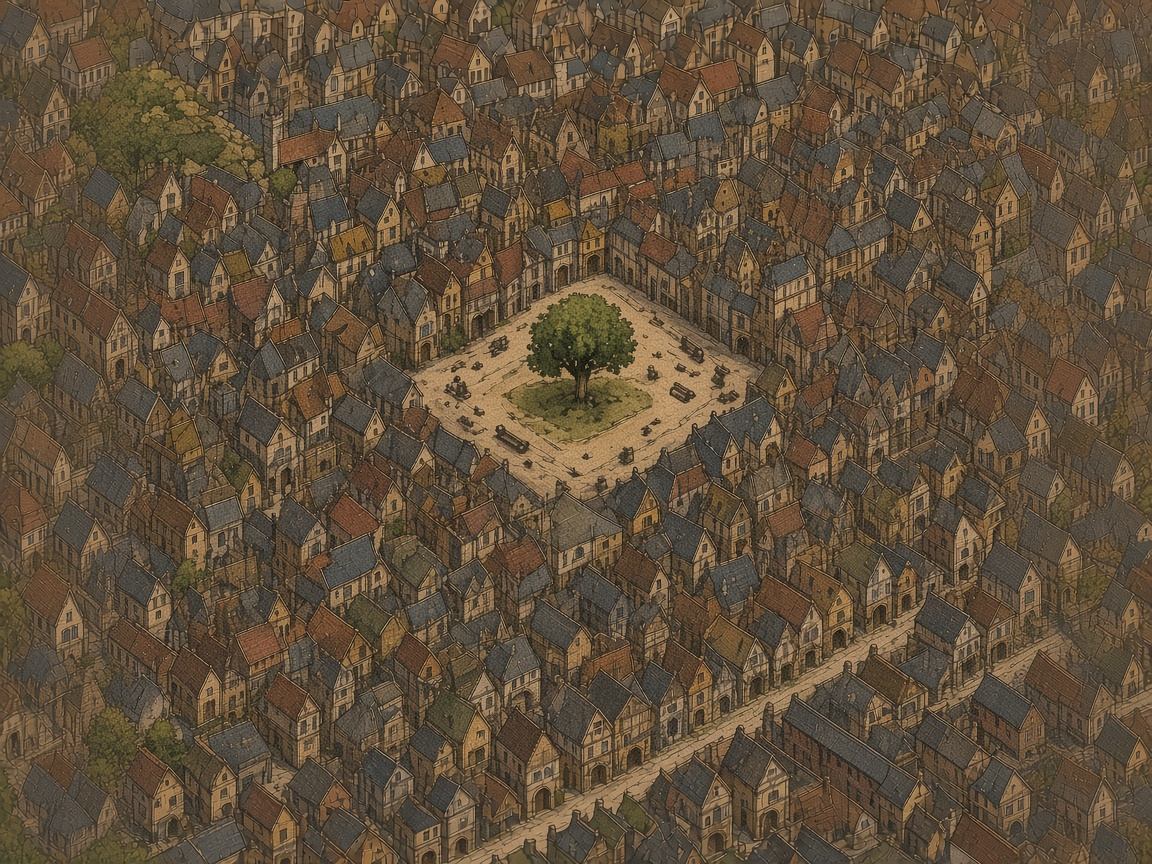
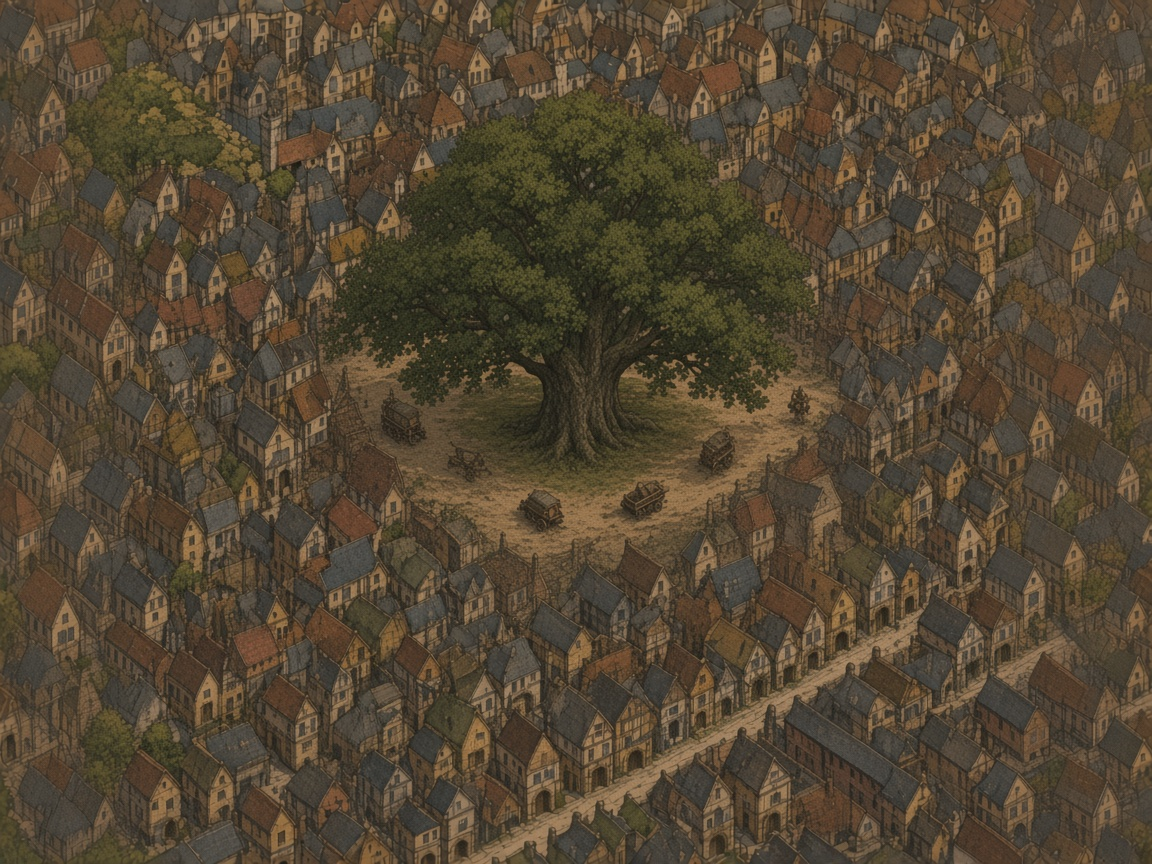
Paint Orentel's Tree as a mature Hand.
The closer sheet had a street tree. The Hand is now a broad dark hardwood filling its square, still inside the city and not the First Hand.

diff --git a/14 - Assets/Maps/label_orentel_drop.py b/14 - Assets/Maps/label_orentel_drop.py
@@ -1,8 +1,9 @@
 #!/usr/bin/env python3
 """Label the Orentel drop zoom.
 
-The Rise inside the city. The Tree is surrounded by roofs. The Drop
-leaves that square through houses. The quays are not in this frame.
+The Rise inside the city. The Tree is a mature Hand: a broad dark
+hardwood filling its square, not the First Hand. The Drop leaves that
+square through houses. The quays are not in this frame.
 Not a new district. The image model was not asked to write.
 
     python3 "14 - Assets/Maps/label_orentel_drop.py"
@@ -51,16 +52,16 @@ def build() -> Image.Image:
 
     halo_text(ink, (140, 40), "Orentel", title, TYPE)
 
-    # The square. Roofs continue past every edge of this sheet.
-    leader(ink, (500, 430), (340, 340))
-    halo_text(ink, (328, 340), "The Rise", place, TYPE, anchor="rm")
+    # The square under the mature Hand. Roofs continue past every edge.
+    leader(ink, (430, 470), (260, 400))
+    halo_text(ink, (248, 400), "The Rise", place, TYPE, anchor="rm")
 
-    leader(ink, (590, 360), (740, 280))
-    halo_text(ink, (752, 280), "The Tree", place, TYPE, anchor="lm")
+    leader(ink, (470, 230), (300, 150))
+    halo_text(ink, (288, 150), "The Tree", place, TYPE, anchor="rm")
 
     # The street leaving the square, still among houses. The quay is off the sheet.
-    leader(ink, (780, 740), (640, 800))
-    halo_text(ink, (628, 800), "The Drop", place, TYPE, anchor="rm")
+    leader(ink, (740, 750), (560, 820))
+    halo_text(ink, (548, 820), "The Drop", place, TYPE, anchor="rm")
 
     return canvas.convert("RGB")
 

diff --git a/14 - Assets/Maps/The Atlas Sheets.md b/14 - Assets/Maps/The Atlas Sheets.md
@@ -272,7 +272,7 @@ The same square as the city plate, drawn closer: the Tree on the left, the table
 
 ![[Orentel-Drop-Atlas.png]]
 
-The Rise inside the roofs. The Tree is surrounded by the city. The Drop leaves the square through houses. The quays are not on this sheet. Rebuild with `label_orentel_drop.py`.
+The Rise inside the roofs. The Tree is a mature Hand, a broad dark hardwood filling its square, not the First Hand and not a glow. The Drop leaves the square through houses. The quays are not on this sheet. Rebuild with `label_orentel_drop.py`.
 
 ![[Orentel-Drop-Atlas-Labeled.png]]
 
